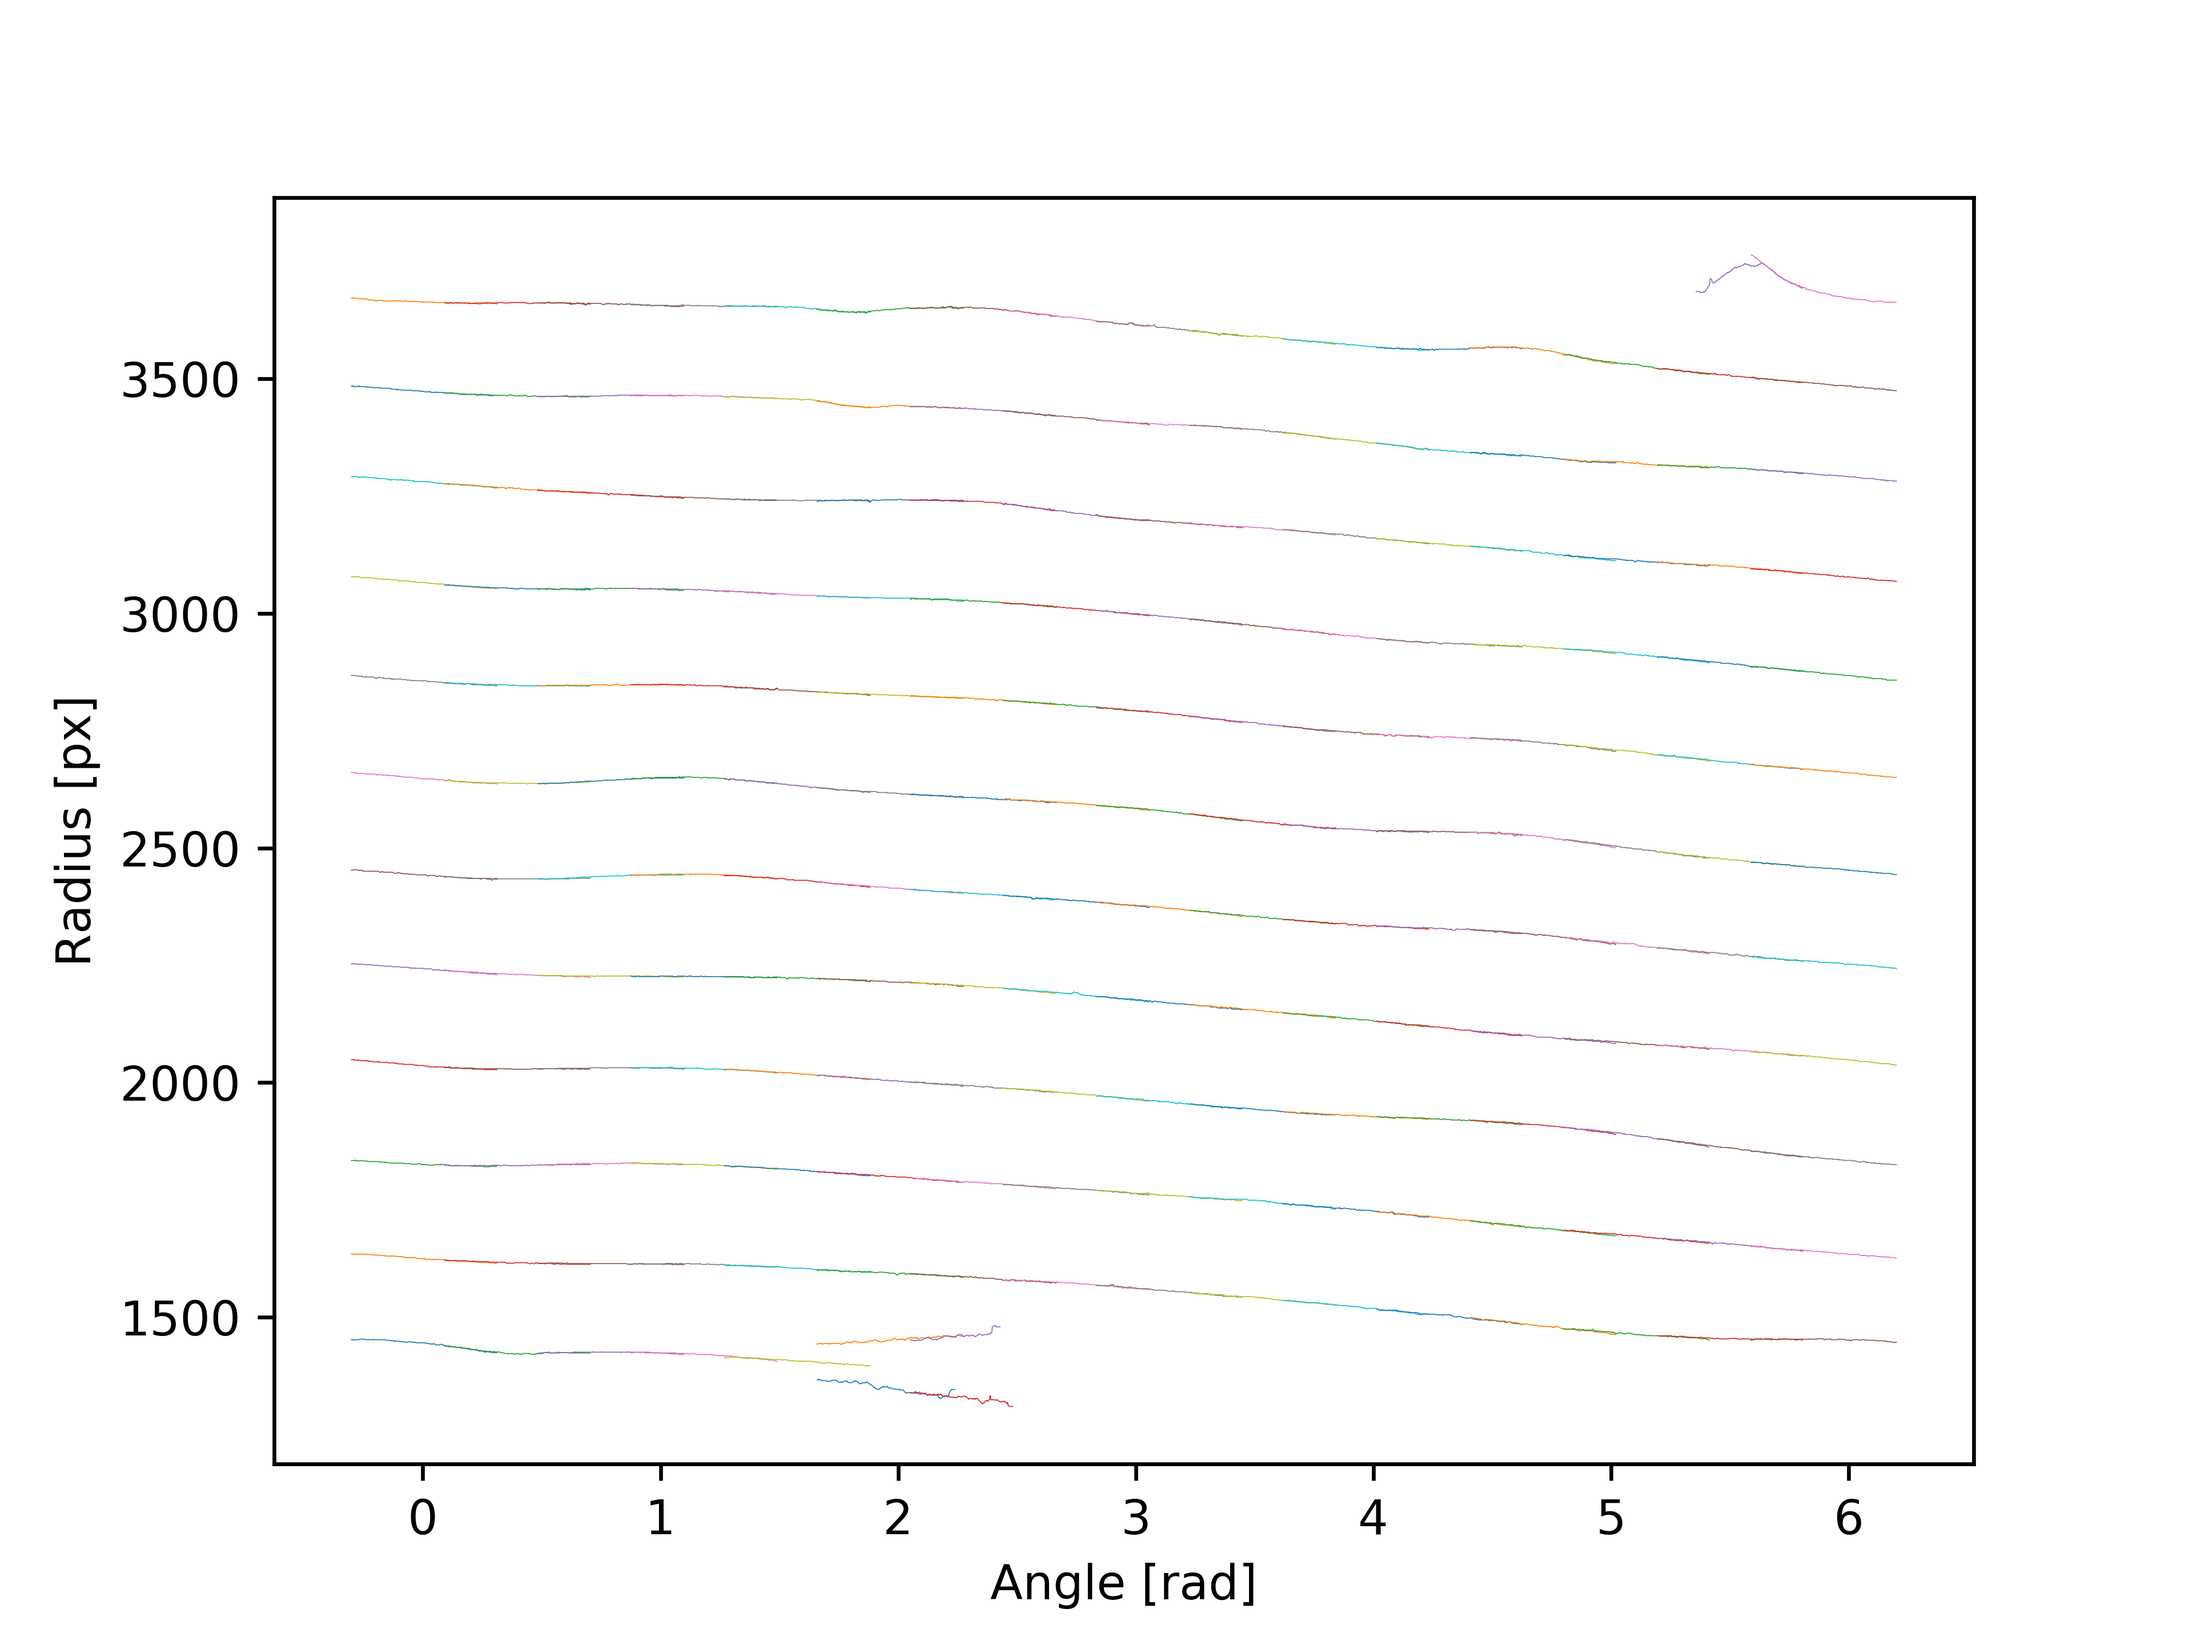
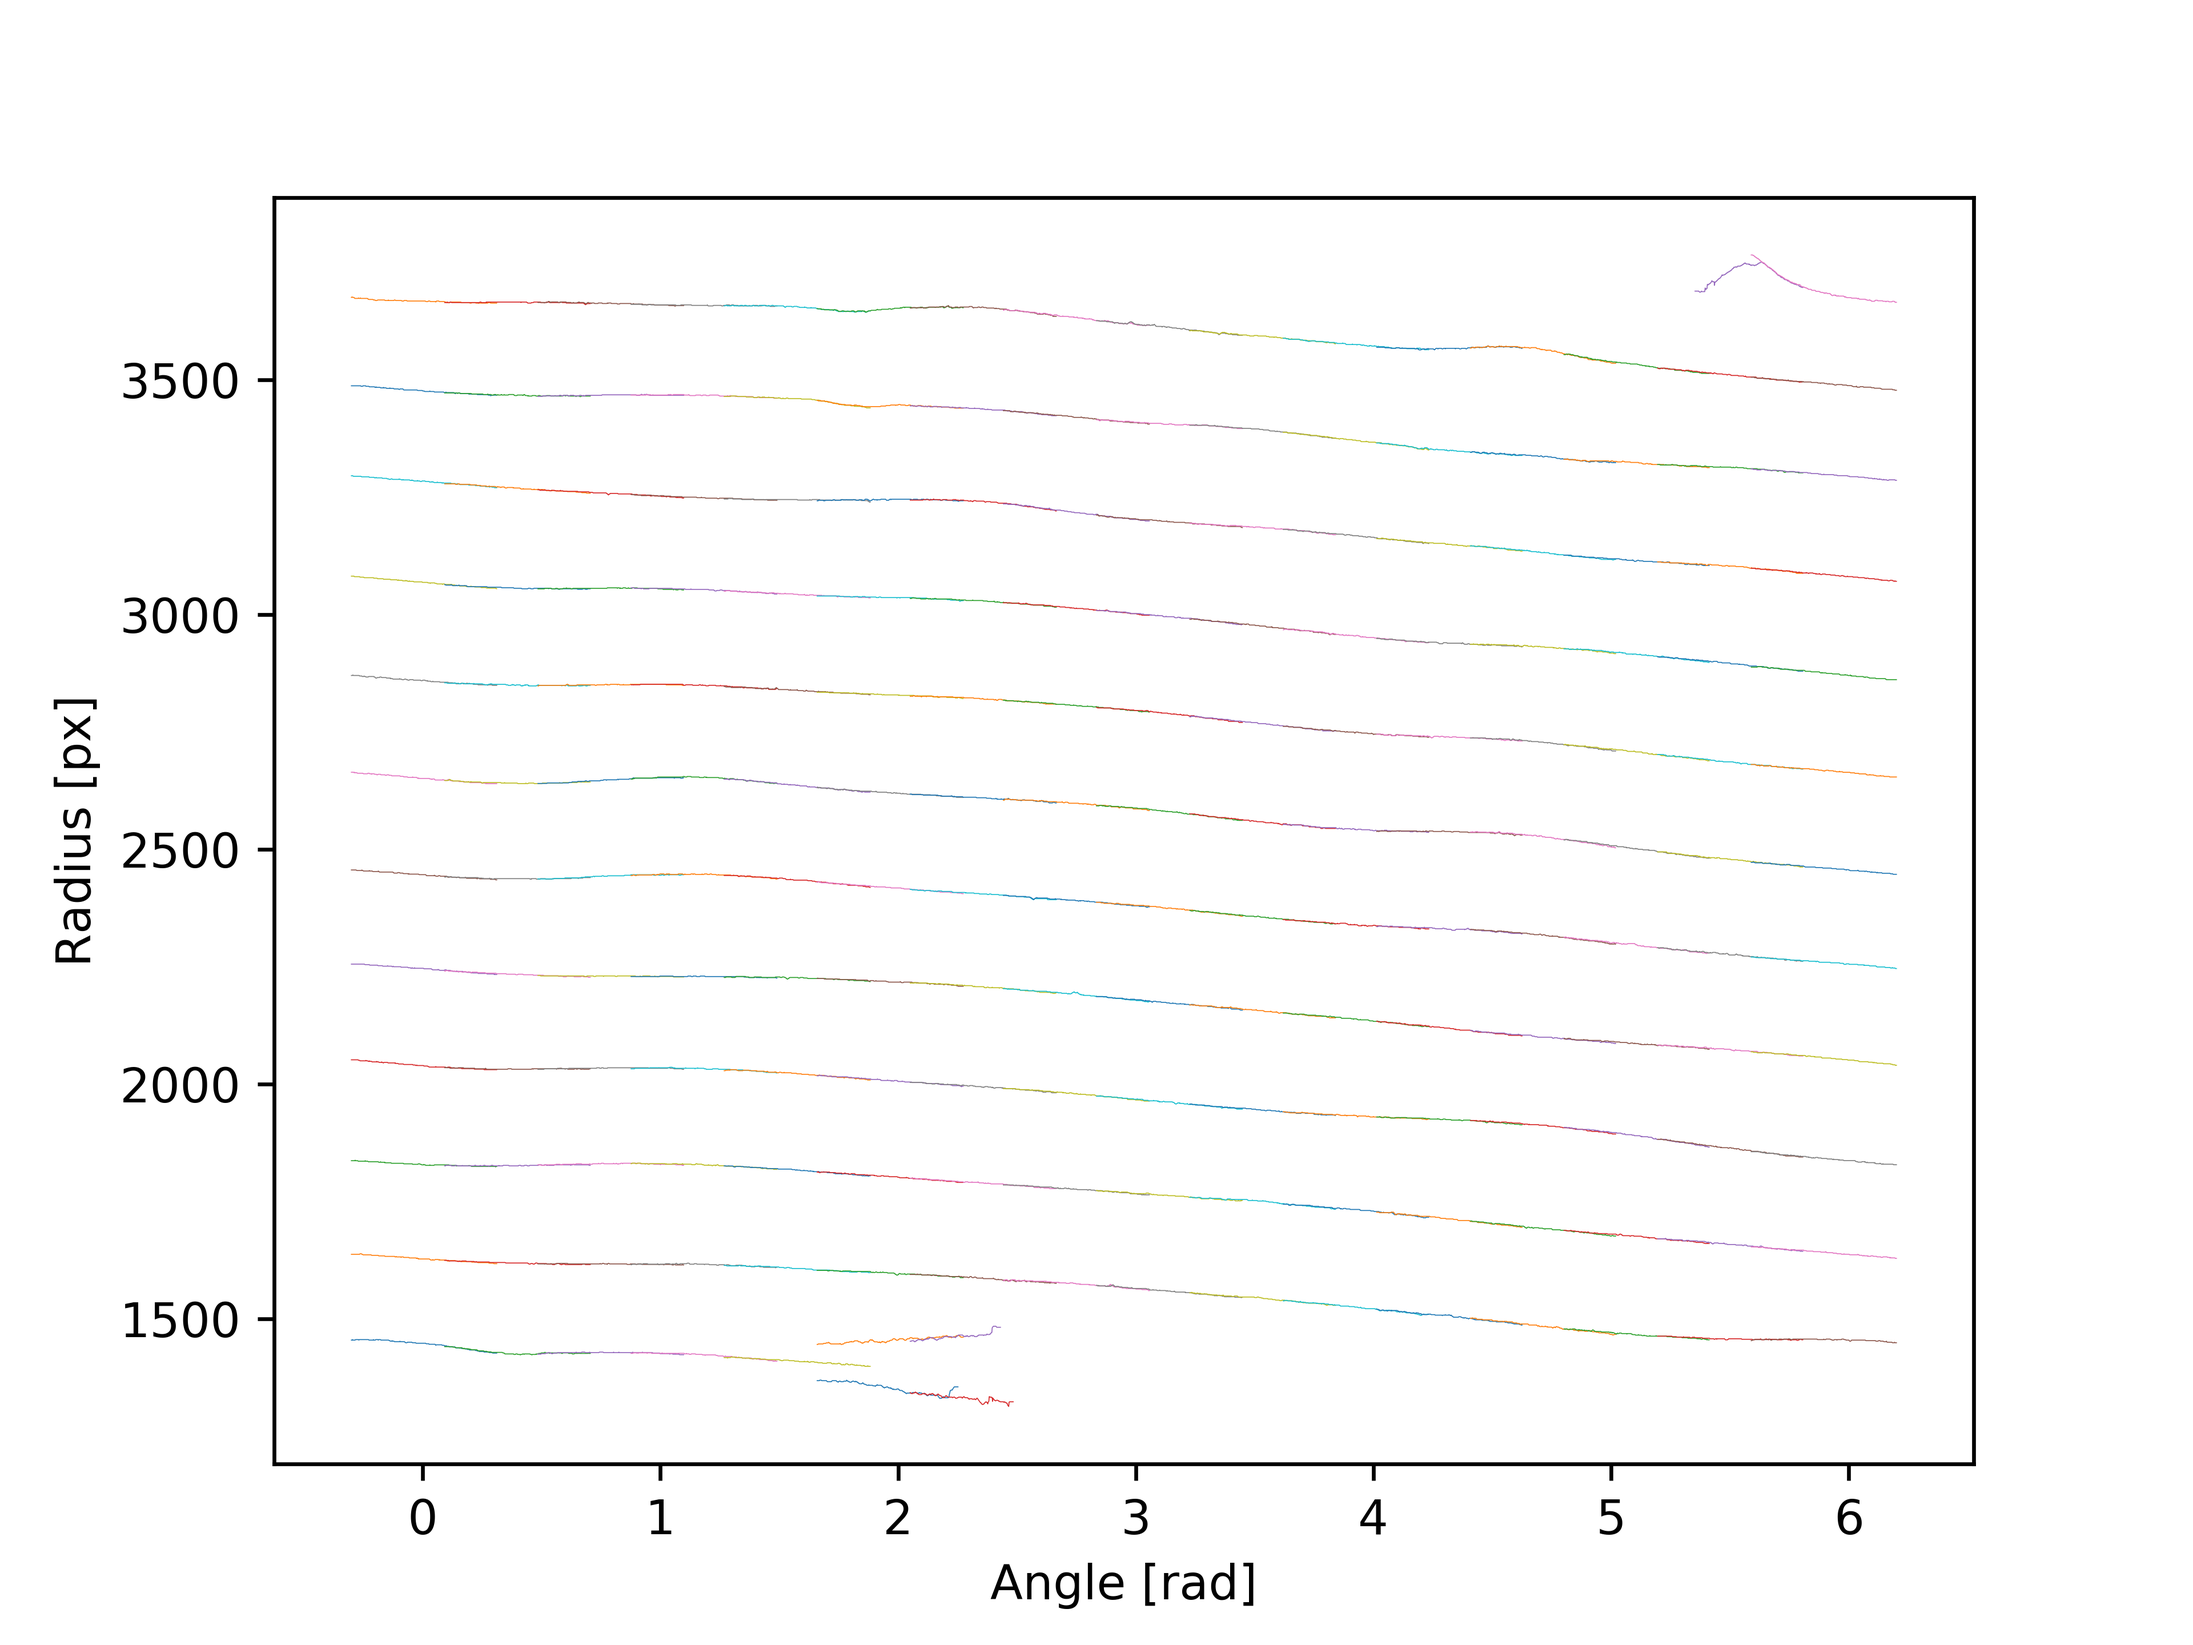
Optimizing linearity to find polar origin

Changed region(s): [[0.0625, 0.7812, 0.0938, 0.8125], [0.0625, 0.5, 0.0938, 0.5312], [0.0625, 0.2188, 0.0938, 0.25]]

diff --git a/applied/pair.py b/applied/pair.py
@@ -4,6 +4,7 @@ import datetime
 from electrode import Electrode
 
 import numpy as np
+from scipy import optimize
 
 import matplotlib.pyplot as plt
 
@@ -72,6 +73,54 @@ class Pair:
                 payload = (phis, rs, scale, chirality)
                 self.electrodes.append(Electrode(self.serial, payload, calibration))
 
+    def optimizeLinearity(self, data, coverage=0.9):
+        opt = optimize.least_squares(self.linearity, (0, 0), args=(data, coverage), jac='2-point')
+        print(opt.x)
+        dx, dy = opt.x
+        phi, r = data
+        x = r * np.cos(phi)
+        y = r * np.sin(phi)
+        xnew = x + dx
+        ynew = y + dy
+
+        rn = np.sqrt(np.square(xnew) + np.square(ynew))
+        phin = np.arctan2(ynew, xnew)
+        phin -= phin[0]
+        deltas = np.abs(np.array([phii - phin[i + 1] for i, phii in enumerate(phin[:-1])]))
+        indices = np.argwhere(deltas >= np.pi).flatten()
+        shift = np.zeros(len(phin))
+        for idx in indices:
+            inew = idx + 1
+            shift[inew:] = shift[inew:] + (2 * np.pi)
+        phin += shift
+
+        dnew = (phin, rn)
+
+        return dnew
+
+    def linearity(self, shift, data, coverage):
+        phi, r = data
+        x = r * np.cos(phi)
+        y = r * np.sin(phi)
+        dx, dy = shift
+
+        xn = x + dx
+        yn = y + dy
+
+        rn = np.sqrt(np.square(xn) + np.square(yn))
+        phin = np.arctan2(yn, xn)
+        phin -= phin[0]
+        deltas = np.abs(np.array([phii - phin[i + 1] for i, phii in enumerate(phin[:-1])]))
+        indices = np.argwhere(deltas >= np.pi).flatten()
+        shift = np.zeros(len(phin))
+        for idx in indices:
+            inew = idx + 1
+            shift[inew:] = shift[inew:] + (2 * np.pi)
+        phin += shift
+        pkg = np.polyfit(x=phin[:int(len(phin) * coverage)], y=rn[:int(len(rn) * coverage)], deg=1, full=True)
+        residual = pkg[1][0]
+        return residual
+
     def computeGap(self):
         lengths = []
         max_phis = []
@@ -89,11 +138,17 @@ class Pair:
         ax = fig.add_subplot(111)
         for i, e in enumerate(self.electrodes):
             r_interp = np.interp(global_phis, np.abs(e.phis)[::e.chirality], e.rs[::e.chirality])
-            global_phis += i * np.pi
-            x = r_interp * np.cos(global_phis)
-            y = r_interp * np.sin(global_phis)
+            data = (global_phis, r_interp)
+            pnew, rnew = self.optimizeLinearity(data)
+            pnew += i * np.pi
+            x = rnew * np.cos(pnew)
+            y = rnew * np.sin(pnew)
             ax.plot(x, y, lw=1)
+
         ax.set_aspect('equal')
+        #ax.set_xlim([0, 10])
+        #ax.set_ylim([0, 10])
+
         fig.savefig(__location__ + '/data/plots/' + str(self.serial) + '_interpolated.png', dpi=300)
 
     def plot(self):

diff --git a/sectorImage/core/calibration.py b/sectorImage/core/calibration.py
@@ -71,19 +71,21 @@ class Calibrator:
         # print('Image loaded in', str(round(time.time() - t0, 2)), 's')
         src = src.astype(np.uint8, copy=False)
         # print('Blurring')
-        im = np.empty(np.shape(src), np.uint8)
+        # im = np.empty(np.shape(src), np.uint8)
 
         inversionMapping = True
         if inversionMapping:
             # c_estimate = (src.shape[1], src.shape[0] // 2)
             dx = 650
             c_estimate = (src.shape[1] + dx, src.shape[0] // 2)
-            src = cv2.linearPolar(src, c_estimate, src.shape[1] + dx, cv2.WARP_FILL_OUTLIERS)
+            im = cv2.linearPolar(src, c_estimate, src.shape[1] + dx, cv2.WARP_FILL_OUTLIERS)
+        else:
+            im = np.copy(src)
 
         # Gaussian Blur to remove fast features
         kernelsize = 5
         sigma = 1.0
-        cv2.GaussianBlur(src=src, ksize=(kernelsize, kernelsize), dst=im, sigmaX=sigma, sigmaY=sigma)
+        cv2.GaussianBlur(src=im, ksize=(kernelsize, kernelsize), dst=im, sigmaX=sigma, sigmaY=sigma)
 
         # print('Convolving')
         # Convolving with kernel
@@ -134,6 +136,8 @@ class Calibrator:
         pt_y = np.array([y for i, y in enumerate(pt_y) if pt_x[i] != 0])
         pt_x = np.array([x for x in pt_x if x != 0])
 
+        # blurCorrection = 3
+        # pt_x += blurCorrection
         # pt_x, pt_y = self.centralSubset(pt_x, pt_y, 0.5)
         if subsampling:
             subregion_size = 10
@@ -148,12 +152,12 @@ class Calibrator:
             sigma = 11
             data = self.smoothing(data, sigma)
 
-        # plot = True
+        # plot = True
         if plot:
             fig = plt.figure()
             ax = fig.add_subplot(111)
-            ax.plot(data[0], data[1], lw=.2, color='red', alpha=0.5)
-            ax.imshow(filtered)
+            ax.plot(data[0], data[1], lw=.1, color='red', alpha=0.5)
+            ax.imshow(src)
             #ax.set_xlim([5700, 6000])
             #ax.set_ylim([1200, 2700])
             ax.set_aspect('auto')

diff --git a/sectorImage/core/stitcher.py b/sectorImage/core/stitcher.py
@@ -98,8 +98,6 @@ class Stitcher:
         segments = []
 
         ampstart = 0
-        figg = plt.figure()
-        axx = figg.add_subplot(111)
         for i, image in enumerate(self.images[::-1]):
             if image.start[1] > ampstart:
                 pstart = image.angles[image.start[0][0]] + (i * 2 * np.pi / len(self.fns))
@@ -111,7 +109,6 @@ class Stitcher:
                 # phis = image.angles[np.array(phis)] + (i * (np.pi - 2.75663253596))
                 #phis = image.angles[np.array(phis)] + dt[i]
                 rs = image.radii[np.array(rs)]
-                axx.plot(rs, lw=0.1)
                 s = (phis, rs, i, j)
                 segments.append(s)
                 if plot:
@@ -120,7 +117,6 @@ class Stitcher:
             # segments.append(img_segs)
         # self.startAngle = (2 * np.pi) - pstart
         self.startAngle = pstart
-        figg.savefig(__location__ + '/../img/out/debug.png', dpi=300)
         if plot:
             # ax.set_aspect('equal')
             ax.set_xlabel('Angle [rad]')
@@ -305,6 +301,8 @@ class Stitcher:
         compP = chirality * compP[::chirality]
         compR = compR[::chirality][start_idx:][::chirality]
 
+        self.linearizeMidpoint(compP, compR)
+
         compX = compR * np.cos(compP)
         compY = compR * np.sin(compP)
         if plot:
@@ -360,6 +358,11 @@ class Stitcher:
         grid = np.linspace(rmin, rmax, num=length, endpoint=True)
         for s in segments:
             ...
+
+    def linearizeMidpoint(self, compP, compR):
+        cutoff = 0.9
+        cutoff_idx = int(len(compP) * cutoff)
+        m, q = np.polyfit(compR, compP, 1)
 
     def loadSegments(self, fn='stitched.npy'):
         fn = __location__ + '/../data/' + fn

diff --git a/applied/main.py b/applied/main.py
@@ -11,12 +11,12 @@ from pair import Pair
 def main():
     s = Sequence(offsite=True)
     s.prime()
-    pair = s.measure(n=16)
-    pair.store()
+    #pair = s.measure(n=16)
+    # pair.store()
     # pair.load()
-    # pair = Pair('CSAT_RD-OFFSITE.h5', fromFile=True)
+    pair = Pair('CSAT_RD-OFFSITE.h5', fromFile=True)
     pair.computeGap()
-    pair.plot()
+    # pair.plot()
     # s.storeSpiral(spiral)
     s.disable()
 
